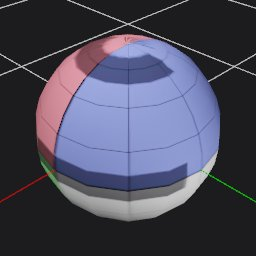
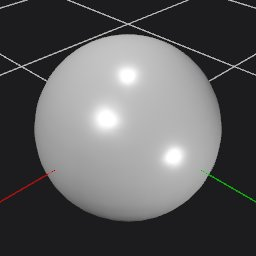
make the bouncy ball random scale and color

diff --git a/code/entities/BouncyBall.cs b/code/entities/BouncyBall.cs
@@ -11,8 +11,10 @@ public partial class BouncyBallEntity : Prop, IUse
 	{
 		base.Spawn();
 
-		SetModel( "models/ball.vmdl" );
+		SetModel( "models/ball/ball.vmdl" );
 		SetupPhysicsFromModel( PhysicsMotionType.Dynamic, false );
+		WorldScale = Rand.Float( 0.5f, 2.0f );
+		RenderColor = Color.Random.ToColor32();
 	}
 
 	protected override void OnPhysicsCollision( CollisionEventData eventData )
